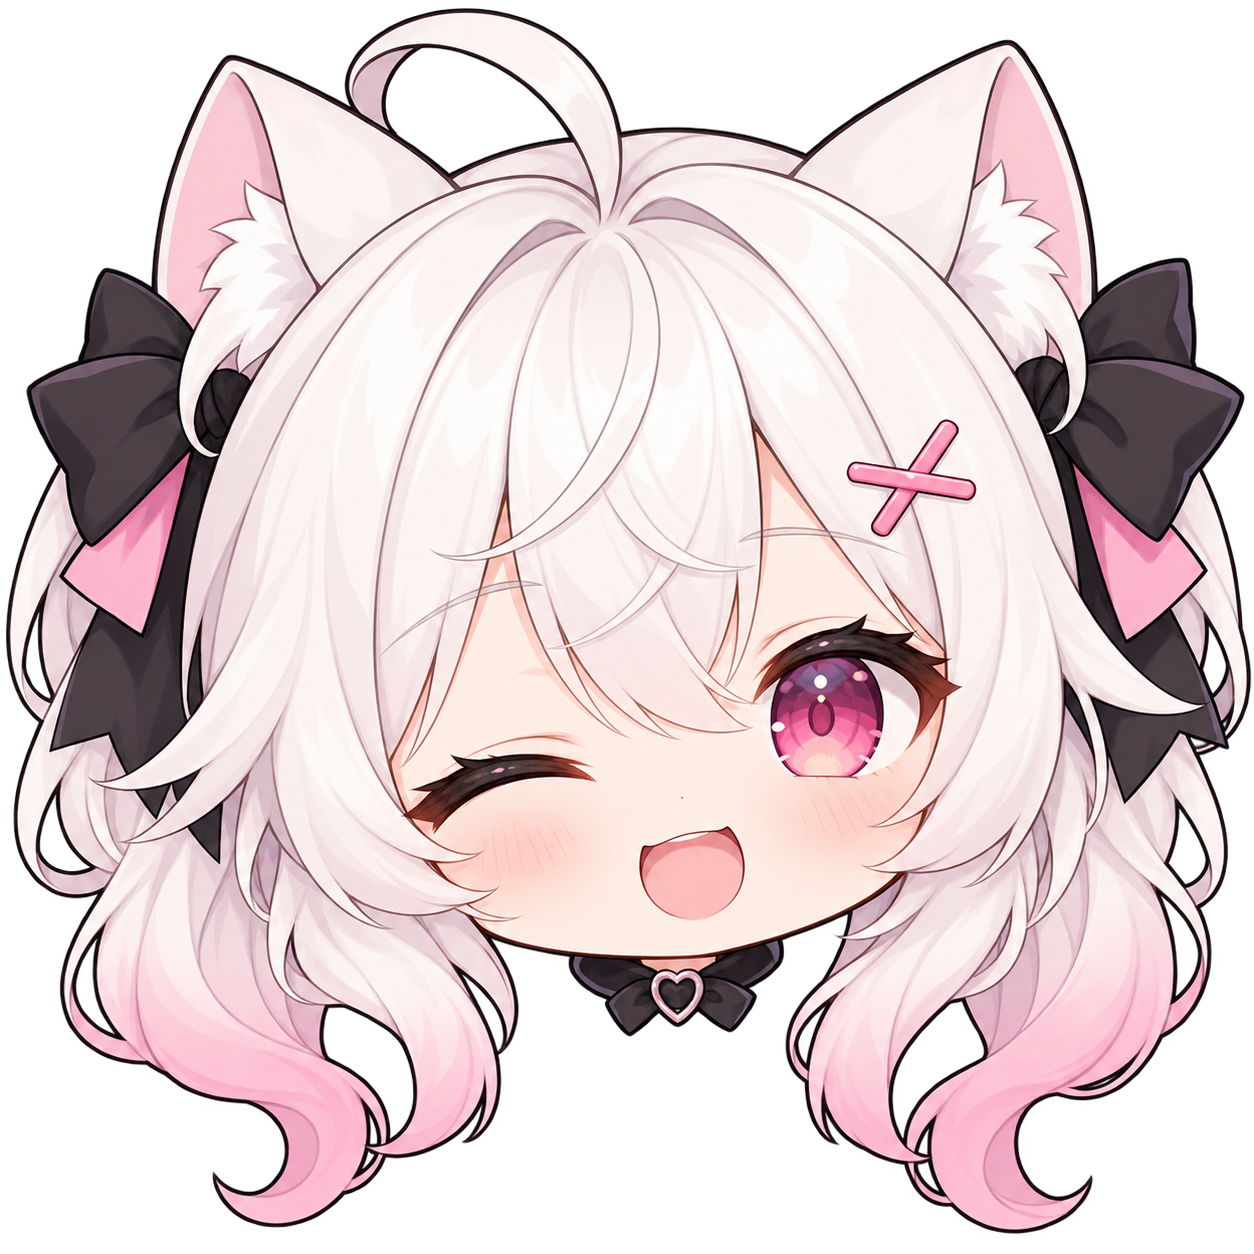
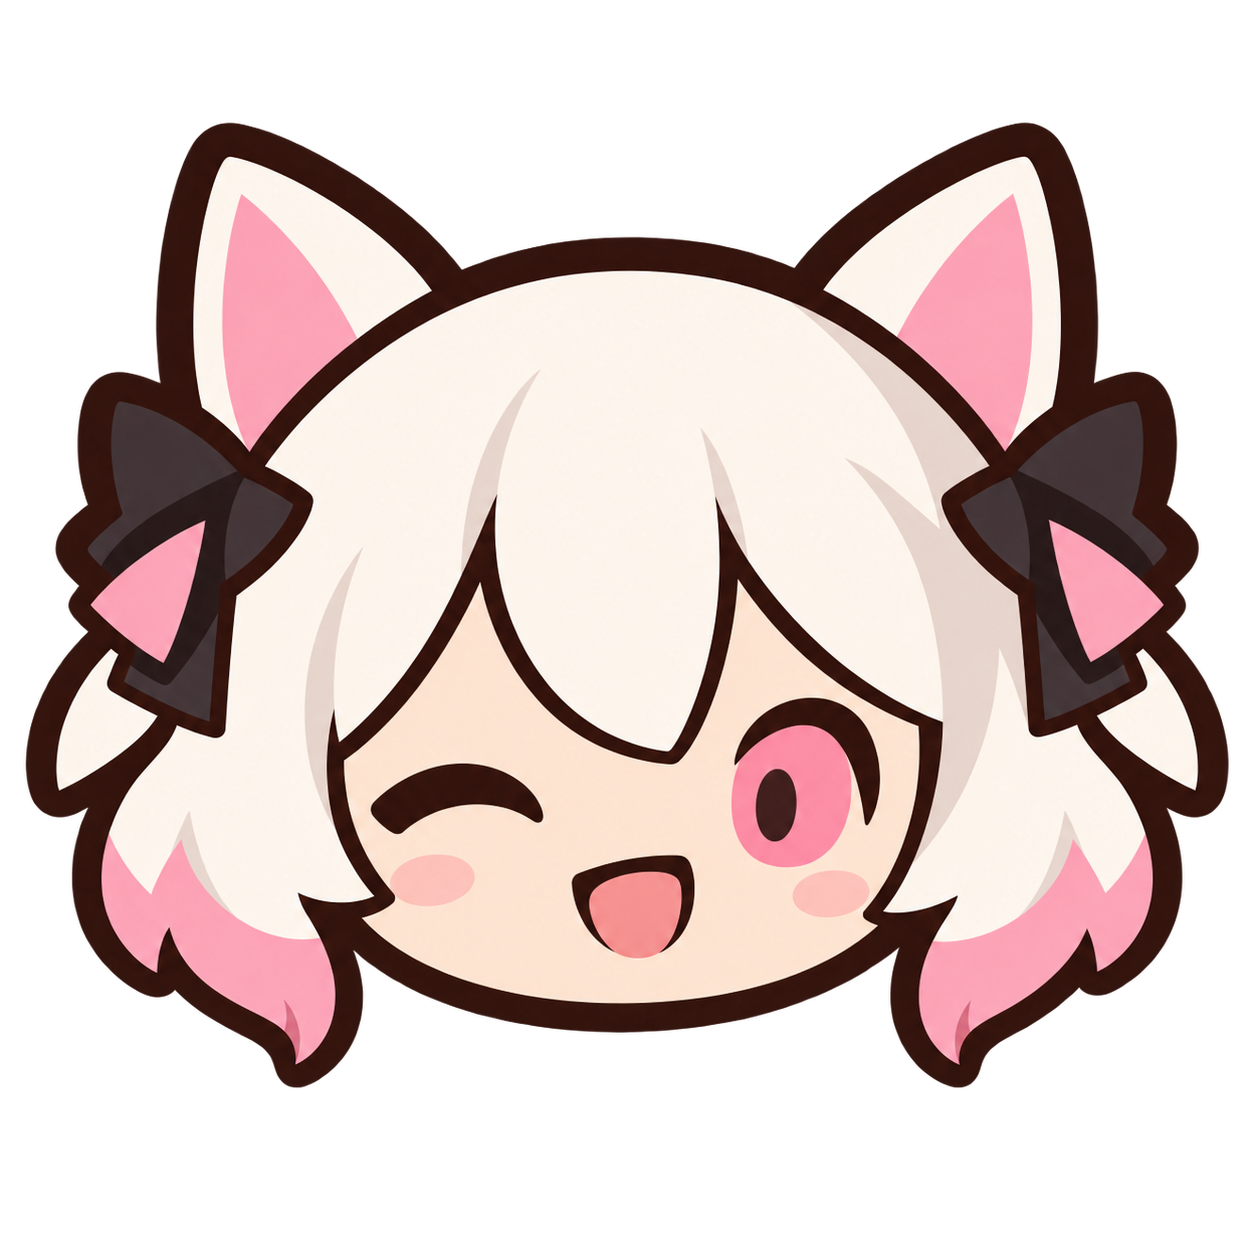
Simplify catgirl board head to match monster art

diff --git a/docs/CatgirlHeadSimple.md b/docs/CatgirlHeadSimple.md
@@ -1,0 +1,7 @@
+# Simplified board head
+
+User requested the hero head adopt the existing monsters' simple style. Built-in GPT Image used assets/Imp.png and assets/Bat.png as style targets and the previous HeroineHead.png as identity reference. Output: assets/HeroineHead.png. Home portrait and monsters unchanged.
+
+## Prompt
+
+STYLE TRANSFER for a tiny tactical board icon. Image 1 red imp and Image 2 purple bat are the STRICT STYLE TARGET: thick dark brown cartoon contours, extremely simple shapes, flat color fills, just one broad shadow, tiny minimal facial details. Image 3 is IDENTITY ONLY, its detailed anime rendering must be discarded. Redraw that white-haired catgirl as a simple head icon that genuinely belongs in the same icon set as the imp and bat. Round peach face, two triangular white cat ears with pink centers, off-white hair as one smooth cap with THREE large bangs and two short chunky side tufts with solid pink tips, two very simple black-and-pink bows. Winking expression: one short curved dark stroke for closed eye, one simple solid pink oval with dark pupil for open eye, small happy mouth. NO elaborate iris, sparkles, lashes, hair strands, flyaway curls, ahoge, collar, hairclips, jewelry, gradients, fine linework or texture. No body. Face should occupy much of silhouette. Use same bold brown line thickness relative to image as monsters. At most 8 flat palette colors plus one broad hair shadow. Compact square centered icon with 8 percent clear margins on all sides, transparent alpha background, no halo, text or frame. Simplification must be radical: readable as a small 64px game token, not an anime portrait.

diff --git a/AGENTS.md b/AGENTS.md
@@ -10,5 +10,6 @@
 - Keep UI minimal. Reuse the approved PNG art; when new art is requested, use built-in imagegen with broad silhouettes and few details.
 - Judge character art by its proportions, readability, and intended game style, not color matching the current background (the user will replace it). Current home portrait uses the user-provided white-haired catgirl, from art-previews/catgirl-6x.png. The board has a matching winking catgirl head with simplified accessories. See docs/CatgirlPortraitTrial.md and docs/CatgirlHead.md.
 - Card data and rules must stay separate from rendering. Preview must match the committed result.
+- Board hero art must match the monsters: thick dark contours, broad color shapes, minimal face details and shading. Keep the home portrait detailed. See docs/CatgirlHeadSimple.md.
 - Verify with npm test, npm run typecheck, browser pointer checks and a real Tauri/WebView2 window.
 - Save local Git checkpoints. Do not publish remotely or create ZIP packages unless requested.
